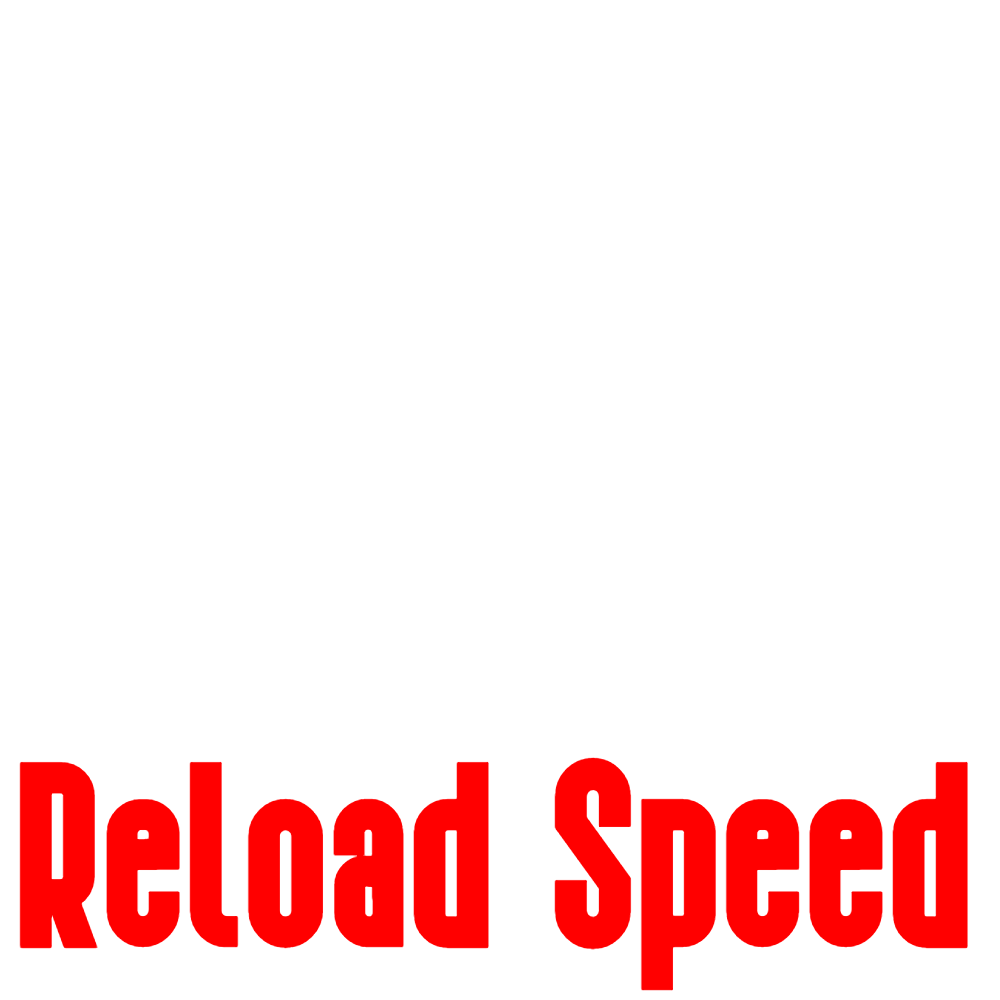
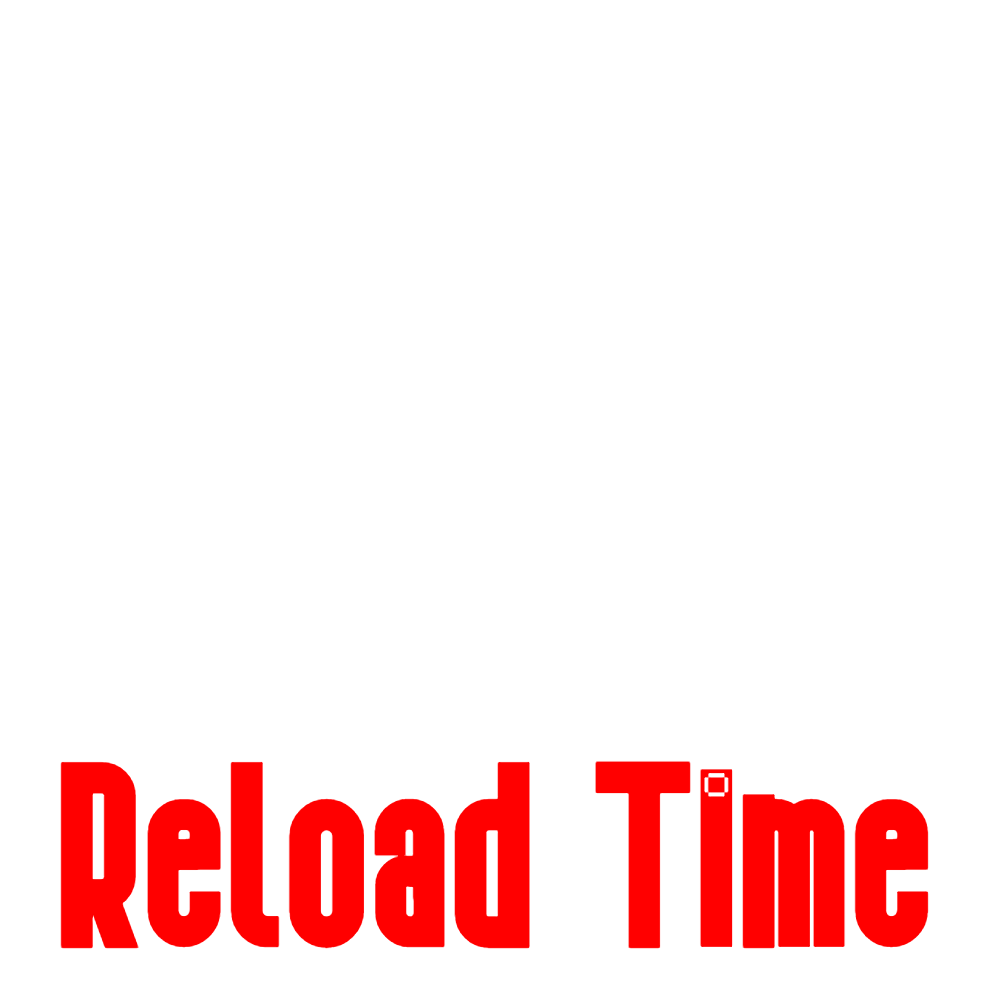
upgrade bars still

Changed region(s): [[0.0, 0.744, 0.992, 0.992]]

diff --git a/RobotGamee/src/animation/UpgradeMenu.java b/RobotGamee/src/animation/UpgradeMenu.java
@@ -41,10 +41,10 @@ public class UpgradeMenu {
 	private static Rectangle equipBTN = new Rectangle(GRWIDTH / 5, (int) (GRWIDTH / 2.6), 0, 0);
 	private static Rectangle backBTN = new Rectangle(GRWIDTH / 54, (int) (GRHEIGHT / 1.09), GRWIDTH / 8, GRHEIGHT / 14);
 
-	private static Rectangle magazineBTN = new Rectangle(0, 0, 40, 40);
-	private static Rectangle damageBTN = new Rectangle(0, 0, 40, 40);
-	private static Rectangle fireRateBTN = new Rectangle(0, 0, 40, 40);
-	private static Rectangle reloadTimeBTN = new Rectangle(0, 0, 40, 40);
+	private static Rectangle damageBTN = new Rectangle((int)(GRHEIGHT / 0.91), 100, 40, 40);
+	private static Rectangle magazineBTN = new Rectangle((int)(GRHEIGHT / 0.91), 200, 40, 40);
+	private static Rectangle reloadTimeBTN = new Rectangle((int)(GRHEIGHT / 0.91), 300, 40, 40);
+	private static Rectangle fireRateBTN = new Rectangle((int)(GRHEIGHT / 0.91), 400, 40, 40);
 	
 	// pictures that will show on screen
 	private Image background;
@@ -54,14 +54,17 @@ public class UpgradeMenu {
 	private Image pgUpImg;
 	private Image pgDownImg;
 	private Image back;
-	private Image magazineImg;
 	private Image cursorImg;
 	private Image cursorClicked;
 	private Image locked;
 	private Image roboPartsImg;
+	private Image damageNameImg;
+	private Image magazineNameImg;
+	private Image reloadTimeNameImg;
+	private Image fireRateNameImg;
 	private Image damageImg;
-	private Image magazineSizeImg;
-	private Image reloadSpeedImg;
+	private Image magazineImg;
+	private Image reloadTimeImg;
 	private Image fireRateImg;
 	
 	// pictures that will replace them
@@ -75,8 +78,8 @@ public class UpgradeMenu {
 	private Image pgDownDark;
 	private Image backLight;
 	private Image backDark;
-	private Image magazineLight;
-	private Image magazineDark;
+	private Image addLight;
+	private Image addDark;
 
 	// gun pictures
 	private static Image pistolImg; // "Pistol POV.png"
@@ -148,14 +151,14 @@ public class UpgradeMenu {
 		pgDownDark = ImageIO.read(new File("downArrow.png"));
 		backLight = ImageIO.read(new File("lightBack.png"));
 		backDark = ImageIO.read(new File("darkBack.png"));
-		magazineLight = ImageIO.read(new File("light add button.png"));
-		magazineDark = ImageIO.read(new File("dark add button.png"));
+		addLight = ImageIO.read(new File("light add button.png"));
+		addDark = ImageIO.read(new File("dark add button.png"));
 		locked = ImageIO.read(new File("Locked Gun.png"));
 		roboPartsImg = ImageIO.read(new File("Robot parts.png"));
-		damageImg = ImageIO.read(new File("damage.png"));
-		magazineSizeImg = ImageIO.read(new File("magazine size.png"));
-		reloadSpeedImg = ImageIO.read(new File("reload speed.png"));
-		fireRateImg = ImageIO.read(new File("fire rate.png"));
+		damageNameImg = ImageIO.read(new File("damage.png"));
+		magazineNameImg = ImageIO.read(new File("magazine size.png"));
+		reloadTimeNameImg = ImageIO.read(new File("reload speed.png"));
+		fireRateNameImg = ImageIO.read(new File("fire rate.png"));
 
 		
 		cursorImg = ImageIO.read(new File("cursor.png"));
@@ -270,11 +273,36 @@ public class UpgradeMenu {
 		
 		//add buttons
 		if (cursor.intersects(magazineBTN)) {
-			magazineImg = magazineLight;
+			magazineImg = addLight;
 //			if (gc.getMouseClick() > 0)
+			System.out.println("Magazine");
 				
 		} else
-			magazineImg = magazineDark;
+			magazineImg = addDark;
+
+		if (cursor.intersects(damageBTN)) {
+			damageImg = addLight;
+//			if (gc.getMouseClick() > 0)
+			System.out.println("Damage");
+				
+		} else
+			damageImg = addDark;
+
+		if (cursor.intersects(fireRateBTN)) {
+			fireRateImg = addLight;
+//			if (gc.getMouseClick() > 0)
+			System.out.println("Fire Rate");
+				
+		} else
+			fireRateImg = addDark;
+
+		if (cursor.intersects(reloadTimeBTN)) {
+			reloadTimeImg = addLight;
+//			if (gc.getMouseClick() > 0)
+			System.out.println("Reload Time");
+				
+		} else
+			reloadTimeImg = addDark;
 
 		gc.getMouseClick(); // this fixes the glitch for scrolling
 
@@ -334,21 +362,24 @@ public class UpgradeMenu {
 			gc.drawString("" + money, GRWIDTH / 8, GRHEIGHT / 10);
 			
 			//add buttons (magazine, damage, ...)
+			gc.drawImage(damageImg, damageBTN);
 			gc.drawImage(magazineImg, magazineBTN);
+			gc.drawImage(reloadTimeImg, reloadTimeBTN);
+			gc.drawImage(fireRateImg, fireRateBTN);
 			
 			//names for attributes
-			gc.drawImage(damageImg, GRWIDTH / 2, 175, GRWIDTH / 10, GRWIDTH / 9);
-			gc.drawImage(magazineSizeImg, GRWIDTH / 2, 225, GRWIDTH / 10, GRWIDTH / 9);
-			gc.drawImage(reloadSpeedImg, GRWIDTH / 2, 275, GRWIDTH / 10, GRWIDTH / 9);
-			gc.drawImage(fireRateImg, GRWIDTH / 2, GRHEIGHT / 2, GRWIDTH / 10, GRWIDTH / 9);
+			gc.drawImage(damageNameImg, GRWIDTH / 2, 175, GRWIDTH / 10, GRWIDTH / 9);
+			gc.drawImage(magazineNameImg, GRWIDTH / 2, 225, GRWIDTH / 10, GRWIDTH / 9);
+			gc.drawImage(reloadTimeNameImg, GRWIDTH / 2, 275, GRWIDTH / 10, GRWIDTH / 9);
+			gc.drawImage(fireRateNameImg, GRWIDTH / 2, GRHEIGHT / 2, GRWIDTH / 10, GRWIDTH / 9);
 			
 			//rectangles for attributes
 			gc.setStroke(GRHEIGHT / 100);
 			for (int i = 0; i < 5; i++) {
 				gc.setColor(Color.RED);
-				gc.fillRect(700 + (i * 50), GRHEIGHT / 2, 50, 20);
+				gc.fillRect((int)(GRHEIGHT / 0.91) + (i * 50), GRHEIGHT / 2, GRWIDTH / 23, GRWIDTH / 50);
 				gc.setColor(Color.BLACK);
-				gc.drawRect(700 + (i * 50), GRHEIGHT / 2, 50, 20);
+				gc.drawRect((int)(GRHEIGHT / 0.91) + (i * 50), GRHEIGHT / 2, GRWIDTH / 23, GRWIDTH / 50);
 			}
 			
 			// cursor
